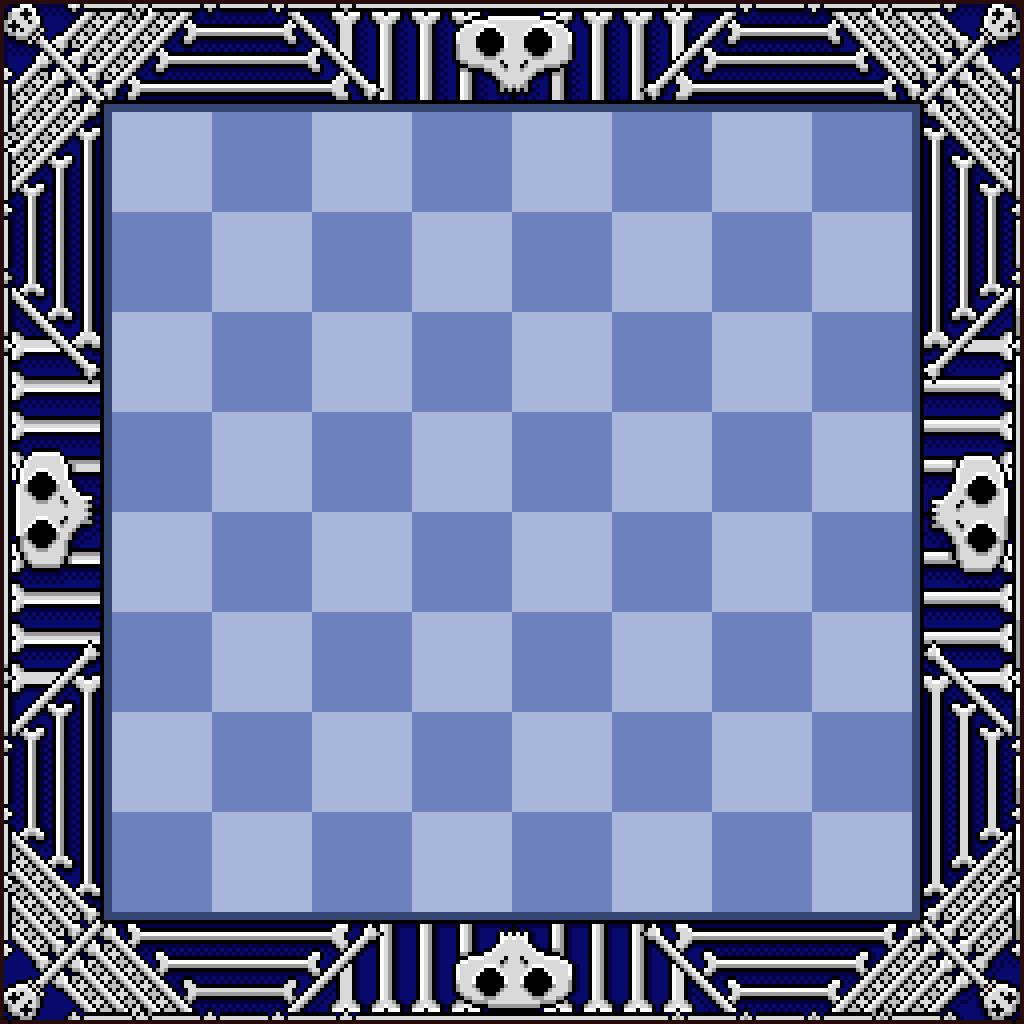
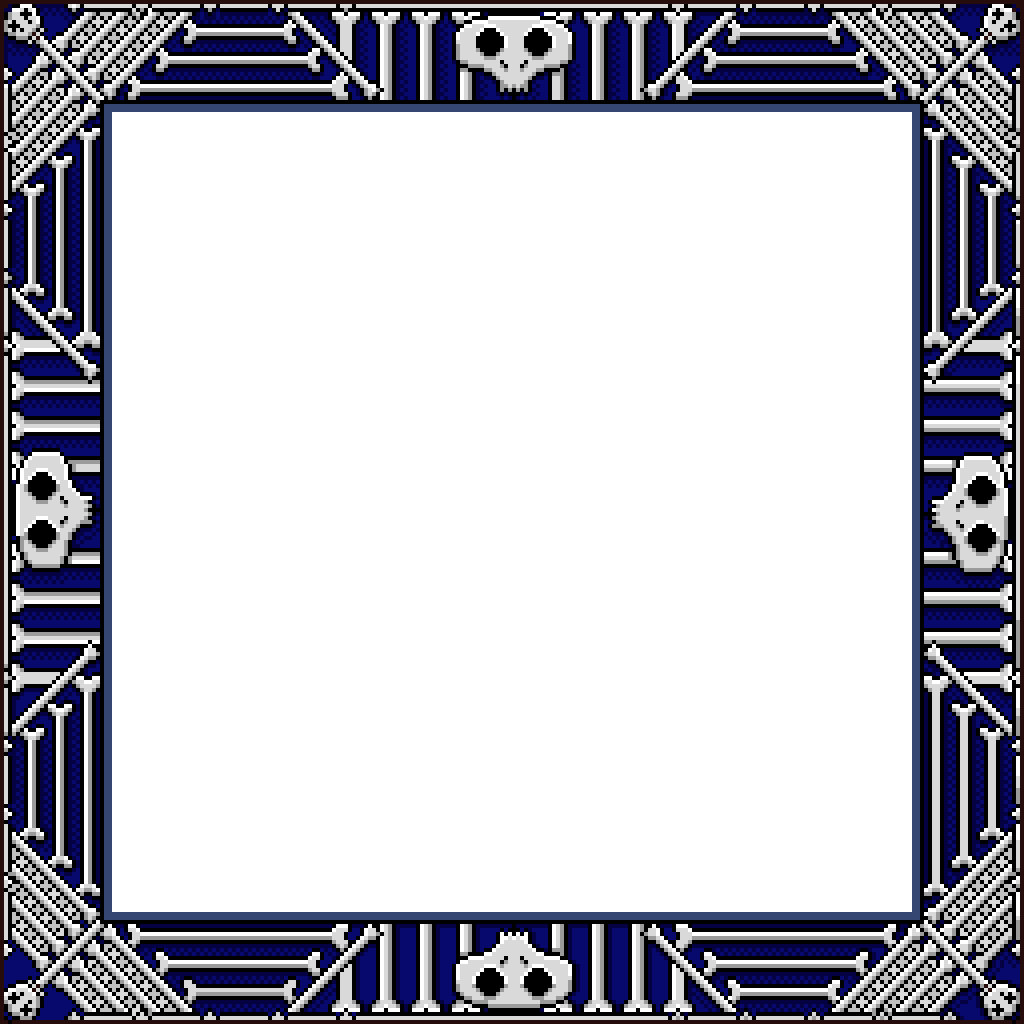
Board/Pieces set showing according to players infos | Touch events for mobile | Highlight color bug fixed

diff --git a/not_so_auto_chess_client/src/components/game_screen/ChessBoard.js b/not_so_auto_chess_client/src/components/game_screen/ChessBoard.js
@@ -14,6 +14,7 @@ import classic_brook from '../../images/game_screen/chess_board/pieces/classic/b
 import classic_bbishop from '../../images/game_screen/chess_board/pieces/classic/bbishop.png';
 import classic_bknight from '../../images/game_screen/chess_board/pieces/classic/bknight.png';
 import classic_bpawn from '../../images/game_screen/chess_board/pieces/classic/bpawn.png';
+import classic_board from '../../images/game_screen/chess_board/classic_board.png';
 
 import bones_wking from '../../images/game_screen/chess_board/pieces/bones/wking.png';
 import bones_wqueen from '../../images/game_screen/chess_board/pieces/bones/wqueen.png';
@@ -27,6 +28,7 @@ import bones_brook from '../../images/game_screen/chess_board/pieces/bones/brook
 import bones_bbishop from '../../images/game_screen/chess_board/pieces/bones/bbishop.png';
 import bones_bknight from '../../images/game_screen/chess_board/pieces/bones/bknight.png';
 import bones_bpawn from '../../images/game_screen/chess_board/pieces/bones/bpawn.png';
+import bones_board from '../../images/game_screen/chess_board/bones_board.png';
 
 const sets_imgs = [];
 sets_imgs.push([]);
@@ -42,6 +44,7 @@ sets_imgs[0].push(classic_bbishop);
 sets_imgs[0].push(classic_brook);
 sets_imgs[0].push(classic_bqueen);
 sets_imgs[0].push(classic_bking);
+sets_imgs[0].push(classic_board);
 sets_imgs.push([]);
 sets_imgs[1].push(bones_wpawn);
 sets_imgs[1].push(bones_wknight);
@@ -55,8 +58,17 @@ sets_imgs[1].push(bones_bbishop);
 sets_imgs[1].push(bones_brook);
 sets_imgs[1].push(bones_bqueen);
 sets_imgs[1].push(bones_bking);
+sets_imgs[1].push(bones_board);
 
-let ChessBoard = ({ lastMove, board, onMove, reverse }) => {
+const sets_board_colors = [];
+sets_board_colors.push([]);
+sets_board_colors[0].push("#c26d46");
+sets_board_colors[0].push("#76211b");
+sets_board_colors.push([]);
+sets_board_colors[1].push("#a7b5db");
+sets_board_colors[1].push("#6c81bb");
+
+let ChessBoard = ({ lastMove, board, onMove, reverse, skin1, skin2, skinBoard }) => {
 
     const chessBoardRef = useRef(null);
 
@@ -75,9 +87,55 @@ let ChessBoard = ({ lastMove, board, onMove, reverse }) => {
     //let fromPos = {x: 0, y: 0};
     //let toPos = {x: 0, y: 0};
 
+    function pieceToSkin(piece_key) {
+        if (piece_key < 6) {
+            return skin1;
+        }
+        else {
+            return skin2;
+        }
+    }
+
+    function touchHandler(event) {
+
+        var touches = event.changedTouches,
+            first = touches[0],
+            type = "";
+        switch(event.type)
+        {
+            case "touchstart": type = "mousedown"; break;
+            case "touchmove":  type = "mousemove"; break;        
+            case "touchend":   type = "mouseup";   break;
+            default:           return;
+        }
+
+        // initMouseEvent(type, canBubble, cancelable, view, clickCount, 
+        //                screenX, screenY, clientX, clientY, ctrlKey, 
+        //                altKey, shiftKey, metaKey, button, relatedTarget);
+
+        var simulatedEvent = document.createEvent("MouseEvent");
+        simulatedEvent.initMouseEvent(type, true, true, window, 1, 
+                                    first.screenX, first.screenY, 
+                                    first.clientX, first.clientY, false, 
+                                    false, false, false, 0/*left*/, null);
+
+        first.target.dispatchEvent(simulatedEvent);
+        event.preventDefault();
+    }
+      
+
     const grabPiece = function (e) {
 
-        if (!((e.buttons & 1) === 1) && activePiece) {
+        var isRightMB;
+        e = e || window.event;
+
+        if ("which" in e)  // Gecko (Firefox), WebKit (Safari/Chrome) & Opera
+            isRightMB = e.which == 3; 
+        else if ("button" in e)  // IE, Opera 
+            isRightMB = e.button == 2; 
+
+        if (isRightMB && activePiece) {
+            console.log("right click")
             activePiece.style.left = `${whereWasPieceX}px`;
             activePiece.style.top = `${whereWasPieceY}px`;
             setActivePiece(null);
@@ -164,14 +222,14 @@ let ChessBoard = ({ lastMove, board, onMove, reverse }) => {
             if (piece_key === 12) {
                 var a = lastMove !== "None" && ( (lastMove[0][0] === y && lastMove[0][1] === x) || (lastMove[1][0] === y && lastMove[1][1] === x) ) ? " lastMove" : "" ;
                 squares.push(
-                    <div className={color + a} key={key} />
+                    <div style={{backgroundColor: `${sets_board_colors[skinBoard][color === "white" ? 0 : 1]}`}}  className={color + a} key={key} />
                 );
             }
             else {
                 var a = lastMove !== "None" && ( (lastMove[0][0] === y && lastMove[0][1] === x) || (lastMove[1][0] === y && lastMove[1][1] === x) ) ? " lastMove" : "" ;
                 squares.push(
-                    <div className={color + a} key={key}  >
-                        <div style={{backgroundImage: `url(${sets_imgs[1][piece_key]})`}} className="chess-piece" />
+                    <div style={{backgroundColor: `${sets_board_colors[skinBoard][color === "white" ? 0 : 1]}`}} className={color + a} key={key}  >
+                        <div style={{backgroundImage: `url(${sets_imgs[pieceToSkin(piece_key)][piece_key]})`}} className="chess-piece" />
                     </div>
                 );
             }
@@ -188,12 +246,18 @@ let ChessBoard = ({ lastMove, board, onMove, reverse }) => {
 
     return (
         <div className="back-chessboard" >
-            <div className="background">
+            <div
+                className="background"
+                style={{backgroundImage: `url(${sets_imgs[skinBoard][12]})`}}
+            >
                 <div
                     className="chessboard"
                     onMouseMove={e => movePiece(e)}
                     onMouseDown={e => grabPiece(e)}
                     onMouseUp={e => dropPiece(e)}
+                    onTouchStart={e => touchHandler(e)}
+                    onTouchMove={e => touchHandler(e)}
+                    onTouchEnd={e => touchHandler(e)}
                     ref={chessBoardRef}
                 >
                     {squares}

diff --git a/not_so_auto_chess_server/src/models/game.js b/not_so_auto_chess_server/src/models/game.js
@@ -27,6 +27,8 @@ class Game {
         state["player2Pseudonym"] = this.players[1].pseudonym;
         state["player1Avatar"] = this.players[0].avatar;
         state["player2Avatar"] = this.players[1].avatar;
+        state["player1Set"] = this.players[0].set;
+        state["player2Set"] = this.players[1].set;
         state["player1Time"] = this.chess_board.playerTimes[this.chess_board.players[0]._id.toString()];
         state["player2Time"] = this.chess_board.playerTimes[this.chess_board.players[1]._id.toString()];
         state["lastMove"] = [[this.chess_board.lastMove.x_from, this.chess_board.lastMove.y_from], [this.chess_board.lastMove.x_to, this.chess_board.lastMove.y_to]];

diff --git a/not_so_auto_chess_client/src/components/game_screen/GameScreen.js b/not_so_auto_chess_client/src/components/game_screen/GameScreen.js
@@ -65,6 +65,9 @@ const GameScreen = ({ socket }) => {
                     onMove={sendChessBoardMove}
                     board={gameState["board"]}
                     reverse={gameState["player2"] && gameState["player2"] === getCookie("auth_key")}
+                    skin1={gameState["player1Set"]}
+                    skin2={gameState["player2Set"]}
+                    skinBoard={gameState["player1Set"] === 0 ? gameState["player2Set"] : gameState["player1Set"]}
                 />
                 <PlayerInfo
                     reverse={gameState["player2"] && gameState["player2"] === getCookie("auth_key")}

diff --git a/not_so_auto_chess_server/src/listeners/disconnect.js b/not_so_auto_chess_server/src/listeners/disconnect.js
@@ -1,0 +1,26 @@
+const Users = require('../controllers/users');
+
+module.exports = function (socket) {
+
+    socket.on('disconnect', function () {
+
+
+        const user = Users.getUserBySocket(socket);
+
+        if (user) {
+
+            user.socket = null;
+
+            let online_friends = Users.getOnlineFriends(_id);
+            for (var i = 0; i < online_friends.length; i++) {
+                let online_friend = online_friends[i];
+                online_friend.updateFriendList();
+            }
+            user.lobby.removePlayer(user);
+
+        }
+
+
+    });
+
+}

diff --git a/not_so_auto_chess_client/src/components/game_screen/chess_board.css b/not_so_auto_chess_client/src/components/game_screen/chess_board.css
@@ -52,8 +52,6 @@
     float: left;
     width: calc(100% / 8);
     height: calc(100% / 8);
-    /*background-color: #76211b;*/
-    background-color: #6c81bb;
     text-align:center;
     display: table-cell;
     vertical-align:middle;
@@ -63,8 +61,6 @@
     float: left;
     width: calc(100% / 8);
     height: calc(100% / 8);
-    /*background-color: #c26d46;*/
-    background-color: #a7b5db;
     text-align:center;
     display: table-cell;
     vertical-align: middle;

diff --git a/not_so_auto_chess_client/src/components/game_screen/game_screen.css b/not_so_auto_chess_client/src/components/game_screen/game_screen.css
@@ -1,6 +1,6 @@
 .gameScreen {
 
-    position: fixed;
+    position: absolute;
     
     width: 100%;
     height: 100%;
